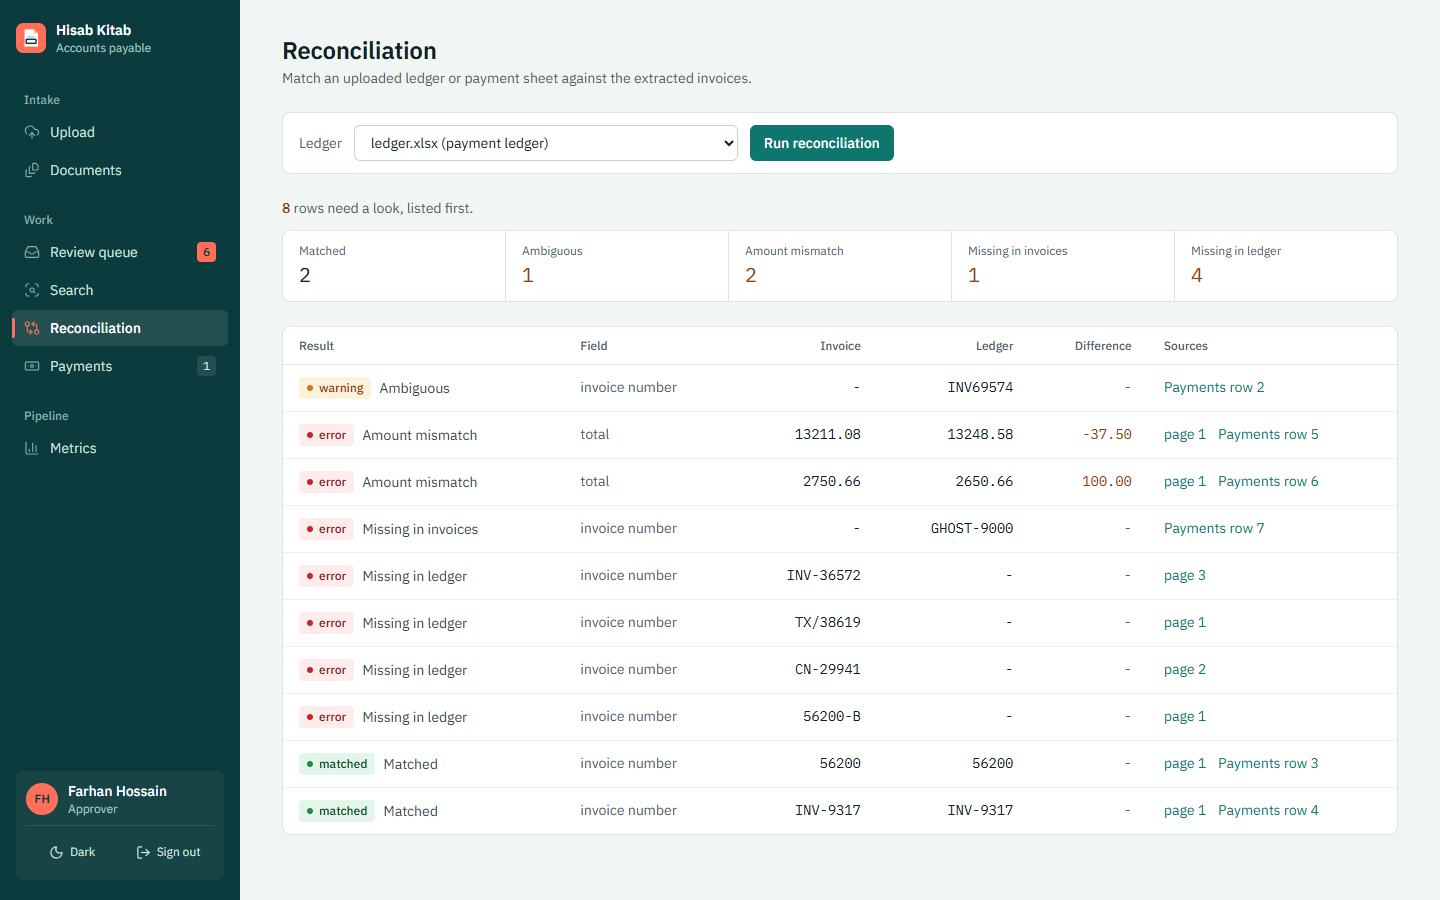
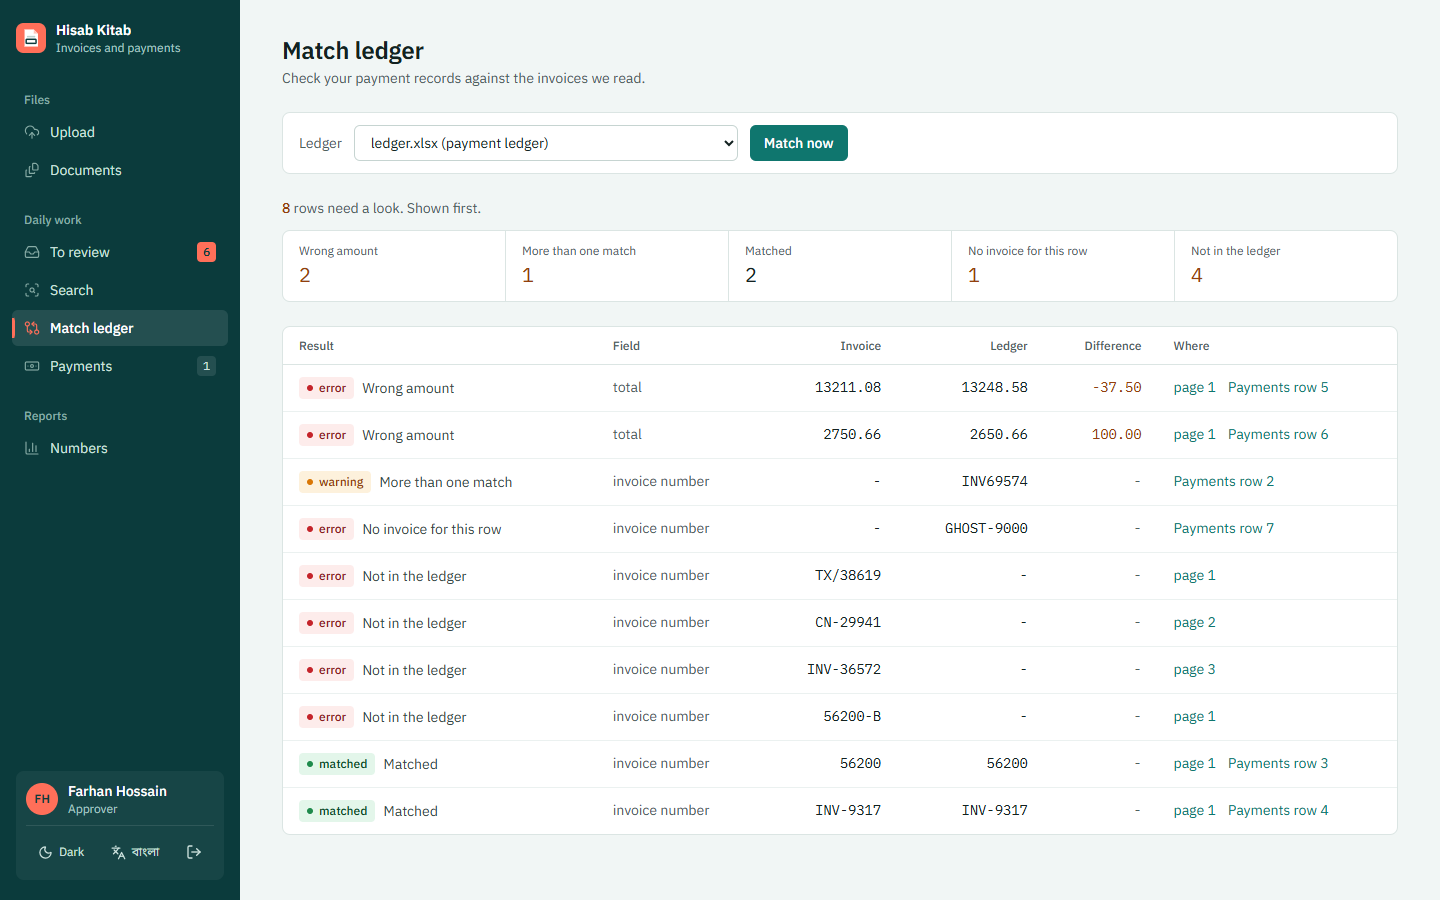
fix: keep sign out on one line, refresh screenshots

diff --git a/web/components/Nav.tsx b/web/components/Nav.tsx
@@ -111,9 +111,9 @@ function Me({ session }: { session: Session }) {
         className="flex h-9 flex-1 items-center justify-center gap-1.5 rounded-md text-xs text-[#cde2de] hover:bg-white/10 hover:text-white max-lg:h-11">
         <Languages size={15} aria-hidden /> {lang === "bn" ? "English" : "বাংলা"}
       </button>
-      <button type="button" onClick={() => setSession(null)}
-        className="flex h-9 flex-1 items-center justify-center gap-1.5 rounded-md text-xs text-[#cde2de] hover:bg-white/10 hover:text-white max-lg:h-11">
-        <LogOut size={15} aria-hidden /> {t("Sign out", "সাইন আউট")}
+      <button type="button" onClick={() => setSession(null)} title={t("Sign out", "সাইন আউট")} aria-label={t("Sign out", "সাইন আউট")}
+        className="flex h-9 w-10 flex-none items-center justify-center rounded-md text-[#cde2de] hover:bg-white/10 hover:text-white max-lg:h-11 max-lg:w-11">
+        <LogOut size={16} aria-hidden />
       </button>
       </div>
     </div>
